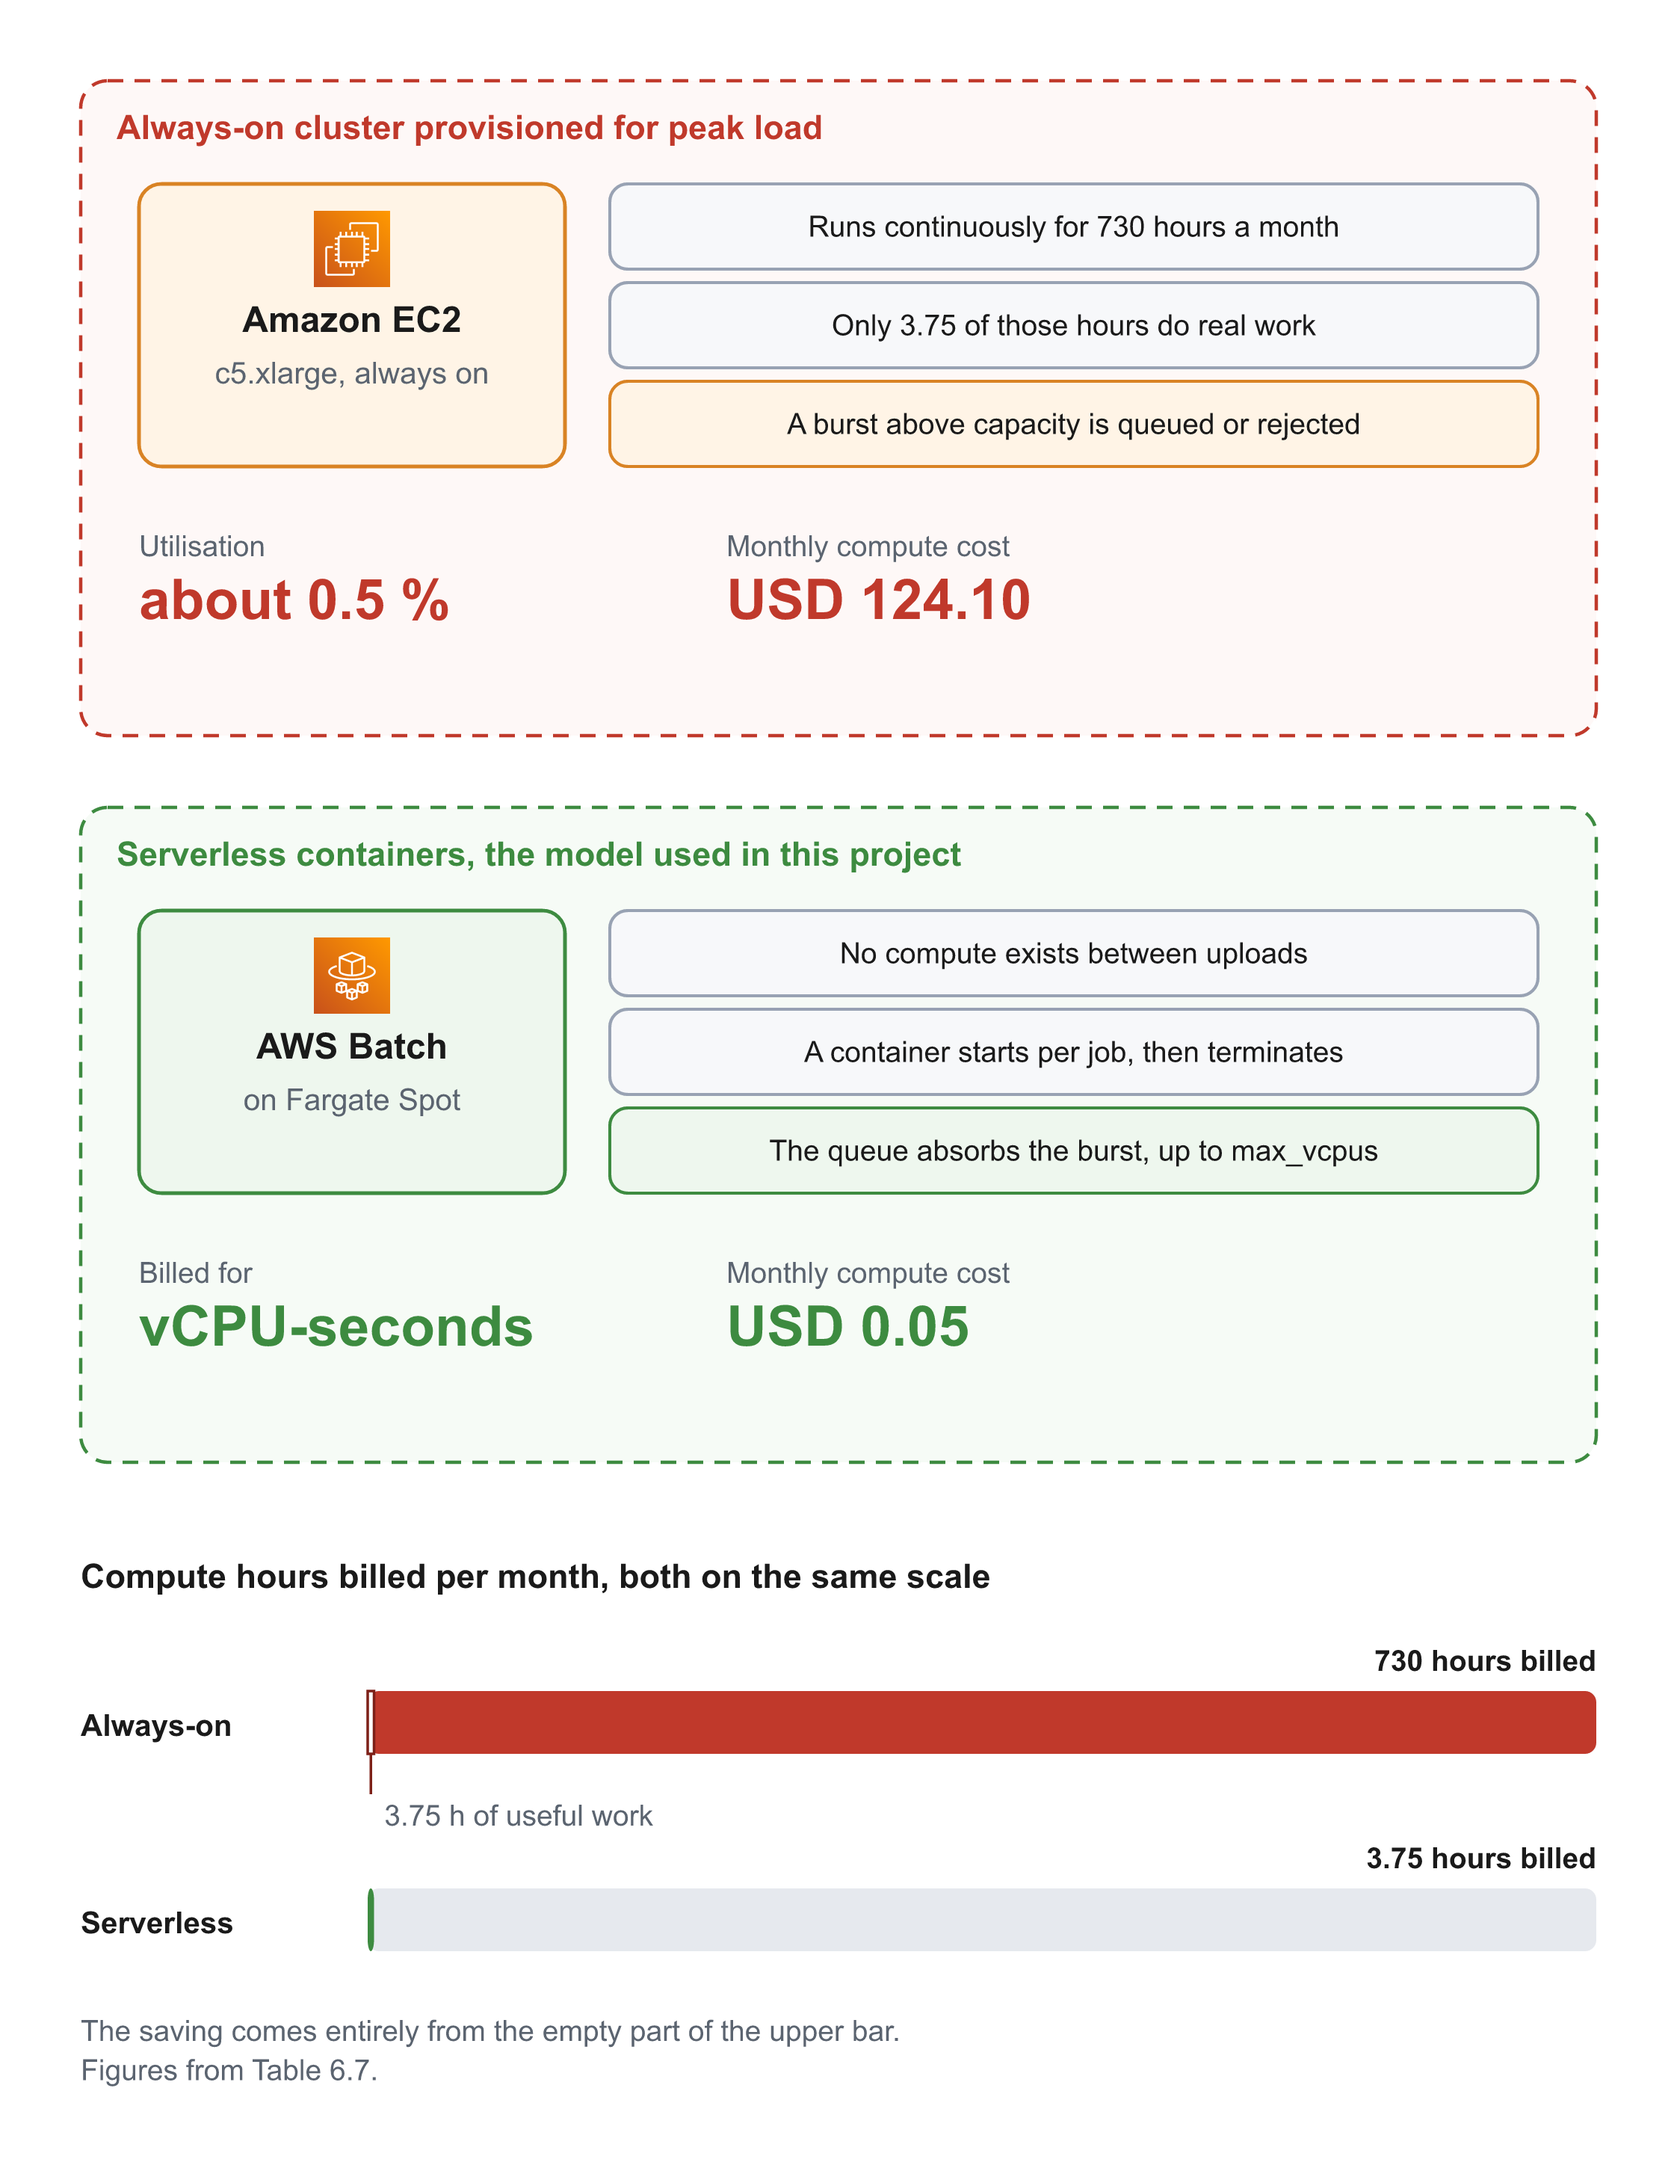
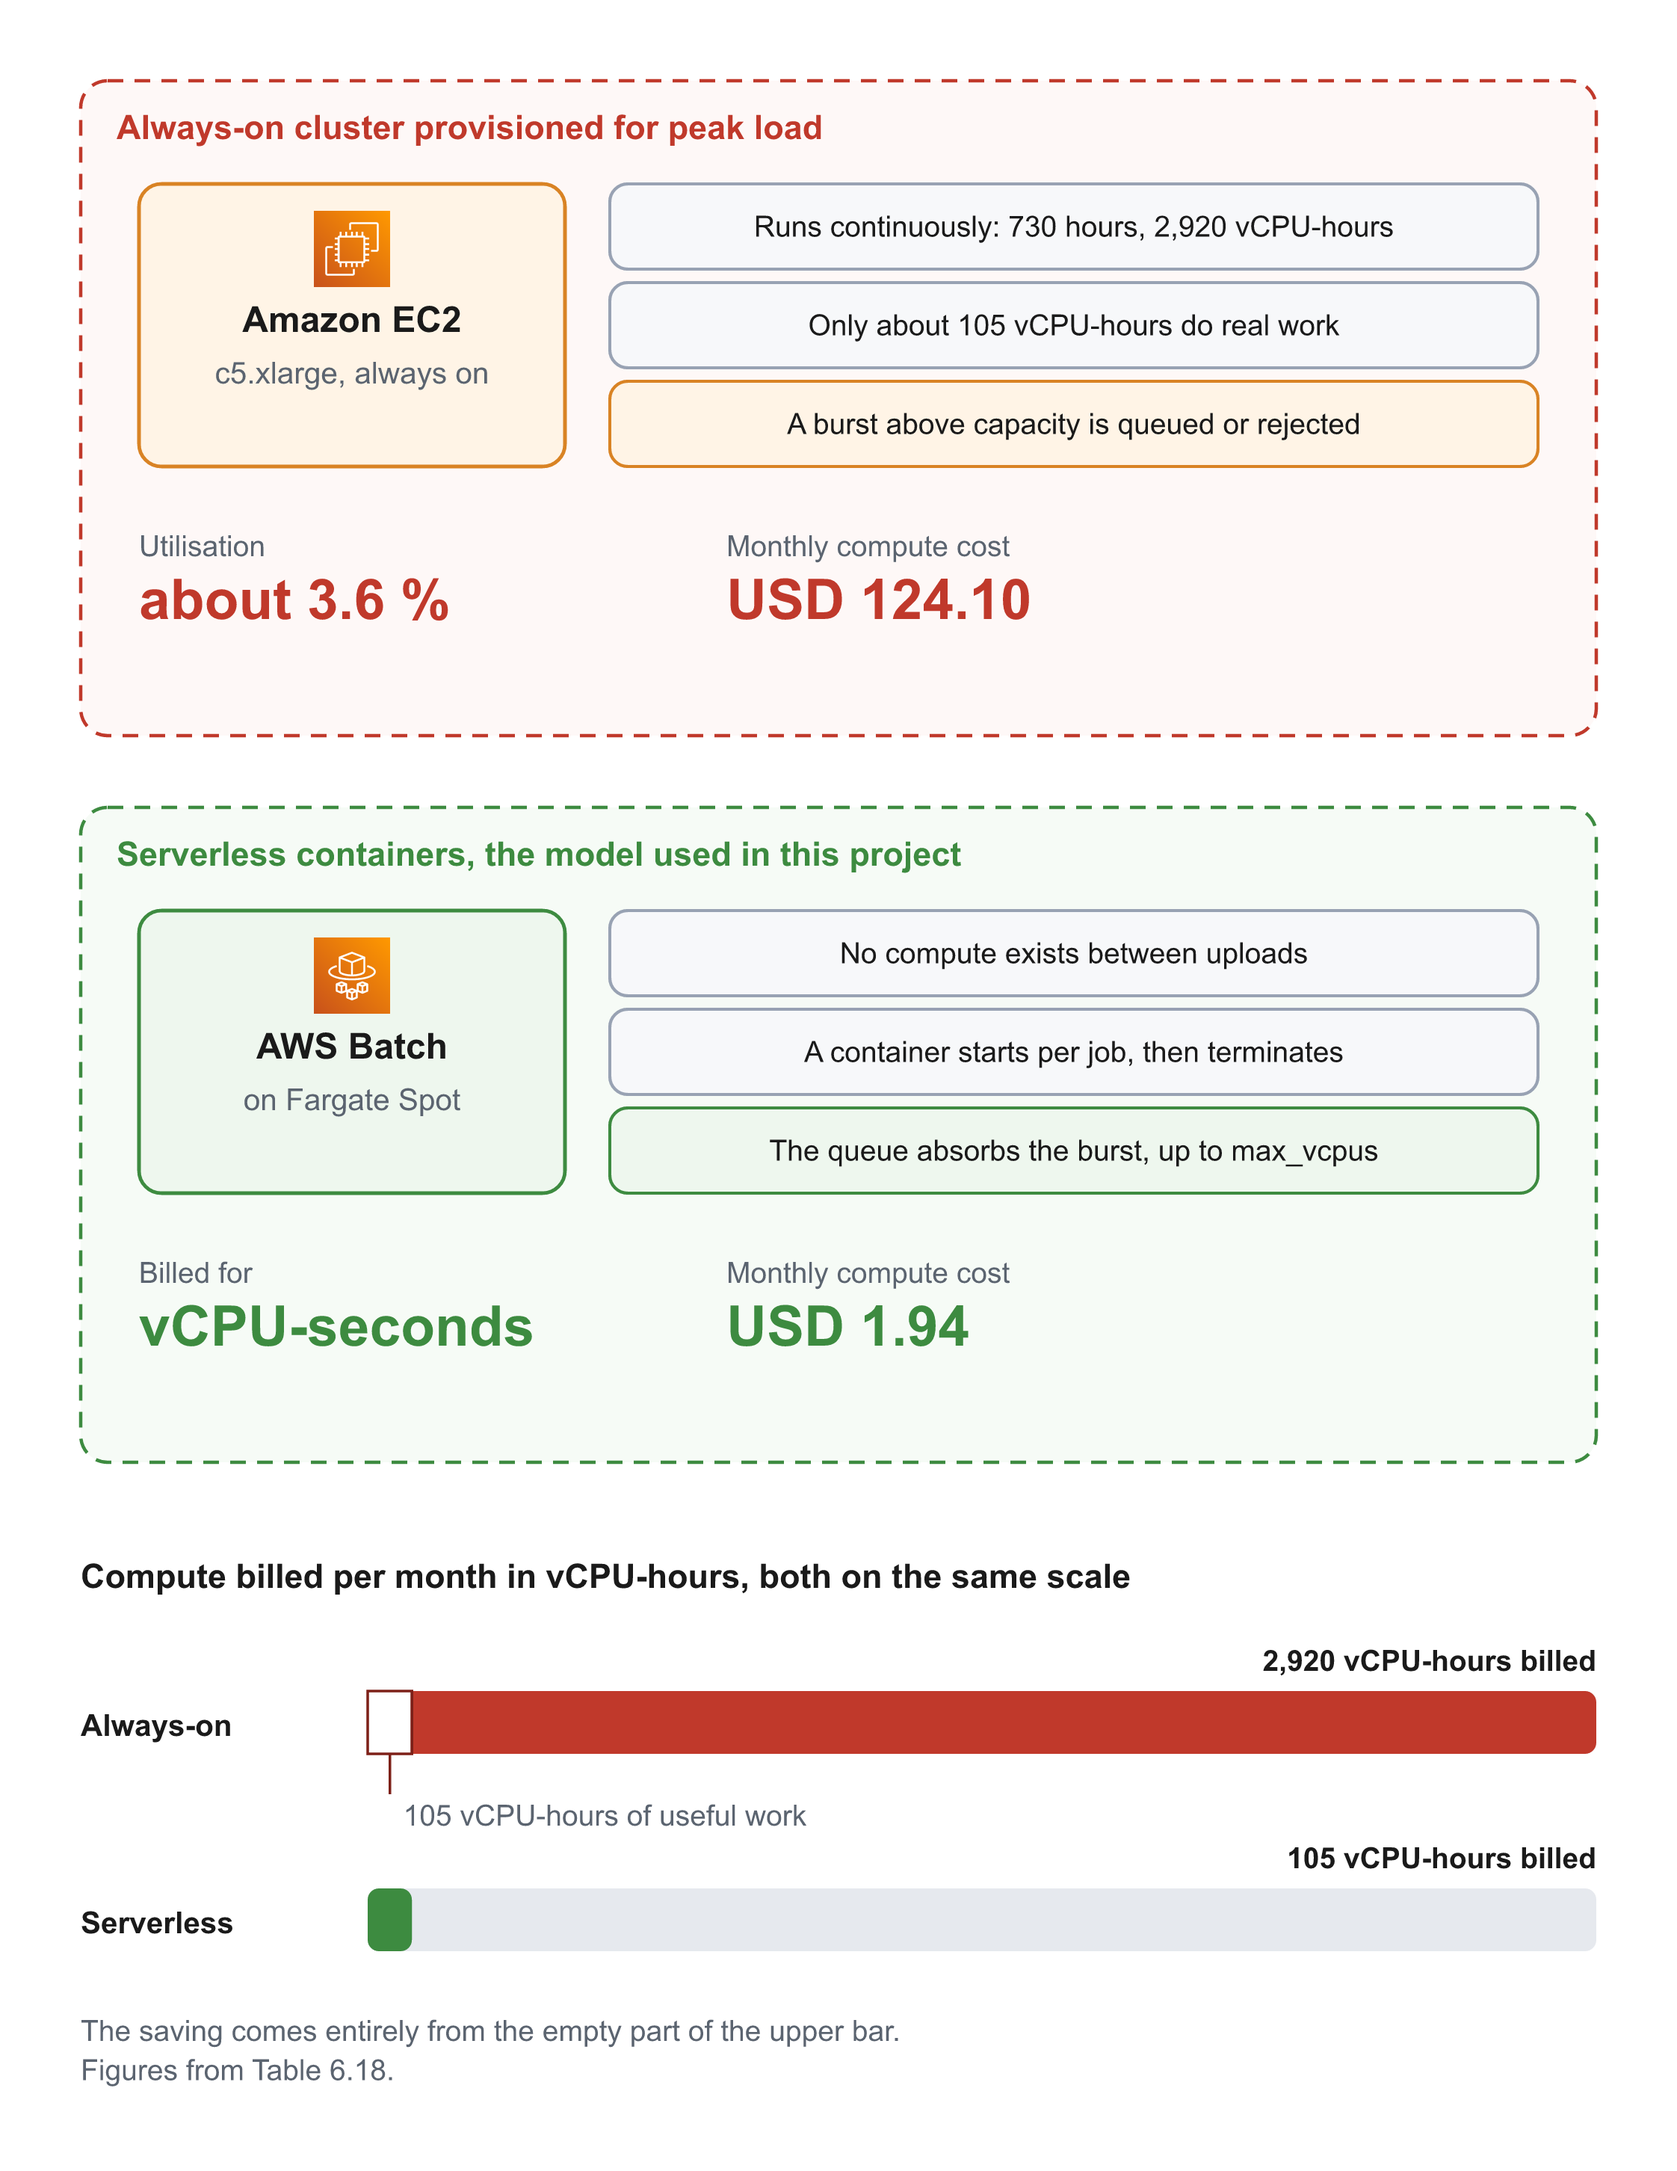
docs(report): cost analysis from the measured vCPU-hours and the real Rekognition price
The model assumed 45 seconds of encoding per five-minute video (3.75 hours
a month). The chunked measurements give about 0.35 vCPU-hours per five
minutes, 105 a month, so the serverless compute line is 1.94 USD, not
0.05, and the architecture-dependent total 3.40 USD against 133.35
(saving 97.45 percent). Content screening, neutral between architectures,
was missing: at the Singapore price of 0.00125 USD per image (read from
the AWS Price List API, not 0.001) it is 22.50 USD a month, the largest
line of the serverless side. With screening and delivery on both sides
the saving is about 77 percent. Figure 2.1 and the sentences in chapters
1, 2, 4 and 7 follow the new numbers.

diff --git a/report/chapters/chap6.tex b/report/chapters/chap6.tex
@@ -1057,38 +1057,53 @@ determines how long a user waits.
 
 The cost comparison contrasts a traditional deployment, in which an Amazon EC2 instance runs
 FFmpeg continuously, against the serverless container architecture. The workload assumption is
-three hundred videos per month averaging five minutes each, with a mean transcoding time of
-forty-five seconds, giving 3.75 hours of actual processing per month.
+three hundred videos per month averaging five minutes each. The processing effort is taken from the
+measurements of Section~\ref{sec:chunked-evaluation} and not assumed: a 25-minute video used 6,363
+vCPU-seconds at the best configuration and a four-hour video 15.1 vCPU-hours, which is about 0.35
+vCPU-hours for each five minutes of video, so the month needs about 105 vCPU-hours. An earlier
+version of this estimate assumed forty-five seconds of encoding per video, 3.75 hours a month. The
+measurements show that figure to have been about thirty times too low, because encoding one second of
+1080p video takes about four vCPU-seconds.
+
+Prices are the list prices of ap-southeast-1 read from the AWS Price List API on 15 October 2026:
+0.05056~USD per Fargate vCPU-hour and 0.00553~USD per GB-hour, which is 0.0616~USD per vCPU-hour for
+the 2~GB per vCPU of the chunk tasks. Spot capacity is taken at 30\% of that, 0.0185~USD, since AWS
+publishes discounts of up to 70\%; the real Spot price varies with demand.
 
 \begin{table}[H]
 \centering
-\caption{Monthly operating cost comparison (ap-southeast-1)}
+\caption{Monthly operating cost comparison for the part of the bill that the architecture controls (ap-southeast-1)}
 \label{tab:cost-comparison}
 \small
 \begin{tabularx}{\textwidth}{p{0.20\textwidth} X X r}
 \toprule
 \textbf{COMPONENT} & \textbf{EC2 (ALWAYS ON)} & \textbf{SERVERLESS} & \textbf{SAVING} \\
 \midrule
-Compute & \texttt{c5.xlarge} for 730 h: \$124.10 & Fargate Spot for 3.75 h: \$0.05 & 99.96\% \\
+Compute & \texttt{c5.xlarge} for 730 h: \$124.10 & Fargate Spot for 105 vCPU-h: \$1.94 & 98.44\% \\
 Storage & EBS 100 GB plus S3 50 GB: \$9.25 & S3 with Glacier lifecycle: \$1.45 & 84.32\% \\
 Queueing & Self-hosted broker & SQS and Lambda: \$0.01 & n/a \\
 \midrule
-\textbf{Total} & \textbf{\$133.35} & \textbf{\$1.51} & \textbf{98.87\%} \\
+\textbf{Total} & \textbf{\$133.35} & \textbf{\$3.40} & \textbf{97.45\%} \\
 \bottomrule
 \end{tabularx}
 \end{table}
 
-Content delivery cost is excluded from Table~\ref{tab:cost-comparison} because it is neutral
-with respect to the architectural choice: the volume of data served to viewers is identical
-whichever compute model produces the renditions. Attributing a CloudFront charge to the EC2
-column while crediting the serverless column with the free tier would overstate the saving. When
-delivery is included on both sides at post-free-tier rates, the total becomes \$145.35 against
-\$13.51, a saving of approximately 90.7\%, which is the more conservative figure and the one
-that should be quoted for total cost of ownership at scale.
+Two costs are excluded from Table~\ref{tab:cost-comparison} because they are neutral with respect to
+the architectural choice, and both are larger than the serverless column. Content delivery is the
+first: the volume of data served to viewers is identical whichever compute model produces the
+renditions, and attributing a CloudFront charge to the EC2 column while crediting the serverless
+column with the free tier would overstate the saving. At post-free-tier rates it is about 12~USD a
+month. Content screening is the second, because both architectures must screen what users upload.
+A five-minute video is sampled at one frame every five seconds, 60 images, and at the Singapore
+price of 0.00125~USD per image for the first million images of the month that is 0.075~USD per video
+and 22.50~USD for three hundred videos, more than six times the whole architecture-dependent bill
+of the serverless column. With both costs added to both columns the totals are \$167.85 against
+\$37.90, a saving of about 77.4\%. That is the conservative figure and the one to quote for total cost of
+ownership at scale; the saving on the part that the architecture controls is 97.5\%.
 
-The saving originates entirely in the elimination of idle capacity. Under the stated
-assumptions the always-on instance is billed for 730 hours while performing useful work for only
-3.75 of them, a utilisation of roughly 0.5\%. It follows that the advantage is not universal:
-as sustained utilisation rises, per-second Fargate billing approaches and eventually exceeds the
-cost of a reserved instance. The architecture is therefore best suited to workloads that are
-genuinely bursty, which is the case for user-generated video uploads.
+The saving originates entirely in the elimination of idle capacity. Under the stated assumptions the
+always-on instance offers 2,920 vCPU-hours in a month, four vCPUs for 730 hours, while the work
+needs about 105 of them, a utilisation of roughly 3.6\%. It follows that the advantage is not
+universal: as sustained utilisation rises, per-second Fargate billing approaches and eventually
+exceeds the cost of a reserved instance. The architecture is therefore best suited to workloads that
+are genuinely bursty, which is the case for user-generated video uploads.

diff --git a/report/chapters/chap4.tex b/report/chapters/chap4.tex
@@ -332,8 +332,8 @@ concrete reason: the video operation accepts stored videos only if they are enco
 an MPEG-4 or MOV container and are at most 10~GB \cite{awsrekognitionlimits}, whereas the platform
 accepts MKV, WebM and AVI uploads of up to 20~GiB, and FFmpeg in the container can decode all of
 them. The image operation also runs synchronously inside a job that is already running, so it needs
-no notification topic and no polling, and its cost has a ceiling: at the list price of 0.001~USD per
-image a video costs at most 0.12~USD. The price of this choice is that sparse sampling can miss
+no notification topic and no polling, and its cost has a ceiling: at the Singapore list price of 0.00125~USD per
+image, for the first million images of the month, a video costs at most 0.15~USD. The price of this choice is that sparse sampling can miss
 content that appears for less than the interval between two samples, which is why screening is the
 first layer and not the only one.
 

diff --git a/report/chapters/chap7.tex b/report/chapters/chap7.tex
@@ -70,8 +70,9 @@ in the processing tier leaves already-published videos playable.
 The processing tier costs nothing while idle. Because transcoding runs on AWS Batch over Fargate
 rather than on a reserved instance, compute capacity exists only while a job runs.
 Section~\ref{sec:cost-analysis} estimates the monthly operating cost of this arrangement at
-\$1.51 against \$133.35 for an always-on instance sized for the same workload, a difference that
-originates entirely in the elimination of idle capacity.
+\$3.40 against \$133.35 for an always-on instance sized for the same workload, a difference that
+originates entirely in the elimination of idle capacity. Screening and delivery cost the same on
+both sides, and with them included the saving is about 77\%.
 
 The same property extends to long videos. Chunk jobs are ordinary AWS Batch jobs on the same
 compute environment, so additional vCPU quota translates directly into lower latency: a four-hour

diff --git a/report/chapters/chap2.tex b/report/chapters/chap2.tex
@@ -77,7 +77,8 @@ Figure~\ref{fig:compute-models} contrasts this model with the conventional alter
 transcoding workload of the size assumed in Section~\ref{sec:cost-analysis}. In the always-on
 arrangement on one side of the figure, a cluster is sized for the busiest moment the service
 expects and then runs continuously, so it is billed for all 730 hours in a month while performing
-roughly 3.75 hours of actual encoding, a utilisation of about half a percent. Its capacity is also
+roughly 105 vCPU-hours of actual encoding out of the 2,920 that a four-vCPU instance
+offers, a utilisation of under four percent. Its capacity is also
 a hard ceiling: an upload burst larger than the cluster was provisioned for must either wait or be
 rejected, and the only remedy is to provision for a still larger peak and waste correspondingly
 more. In the serverless arrangement on the other side, no compute exists between uploads. An

diff --git a/report/chapters/chap1.tex b/report/chapters/chap1.tex
@@ -113,7 +113,7 @@ reported.
 The immediate beneficiaries of this design are small teams and individual creators who need a
 video platform but cannot justify a permanently running transcoding cluster. The cost comparison
 in Section~\ref{sec:cost-analysis} estimates that processing three hundred videos a month costs
-roughly \$1.51 on the architecture built here against \$133.35 on an always-on instance sized for
+roughly \$3.40 on the architecture built here against \$133.35 on an always-on instance sized for
 the same work, because compute exists only while a job runs. That difference is what makes video
 hosting feasible for a service whose upload volume is intermittent, which describes most
 platforms before they become large.
